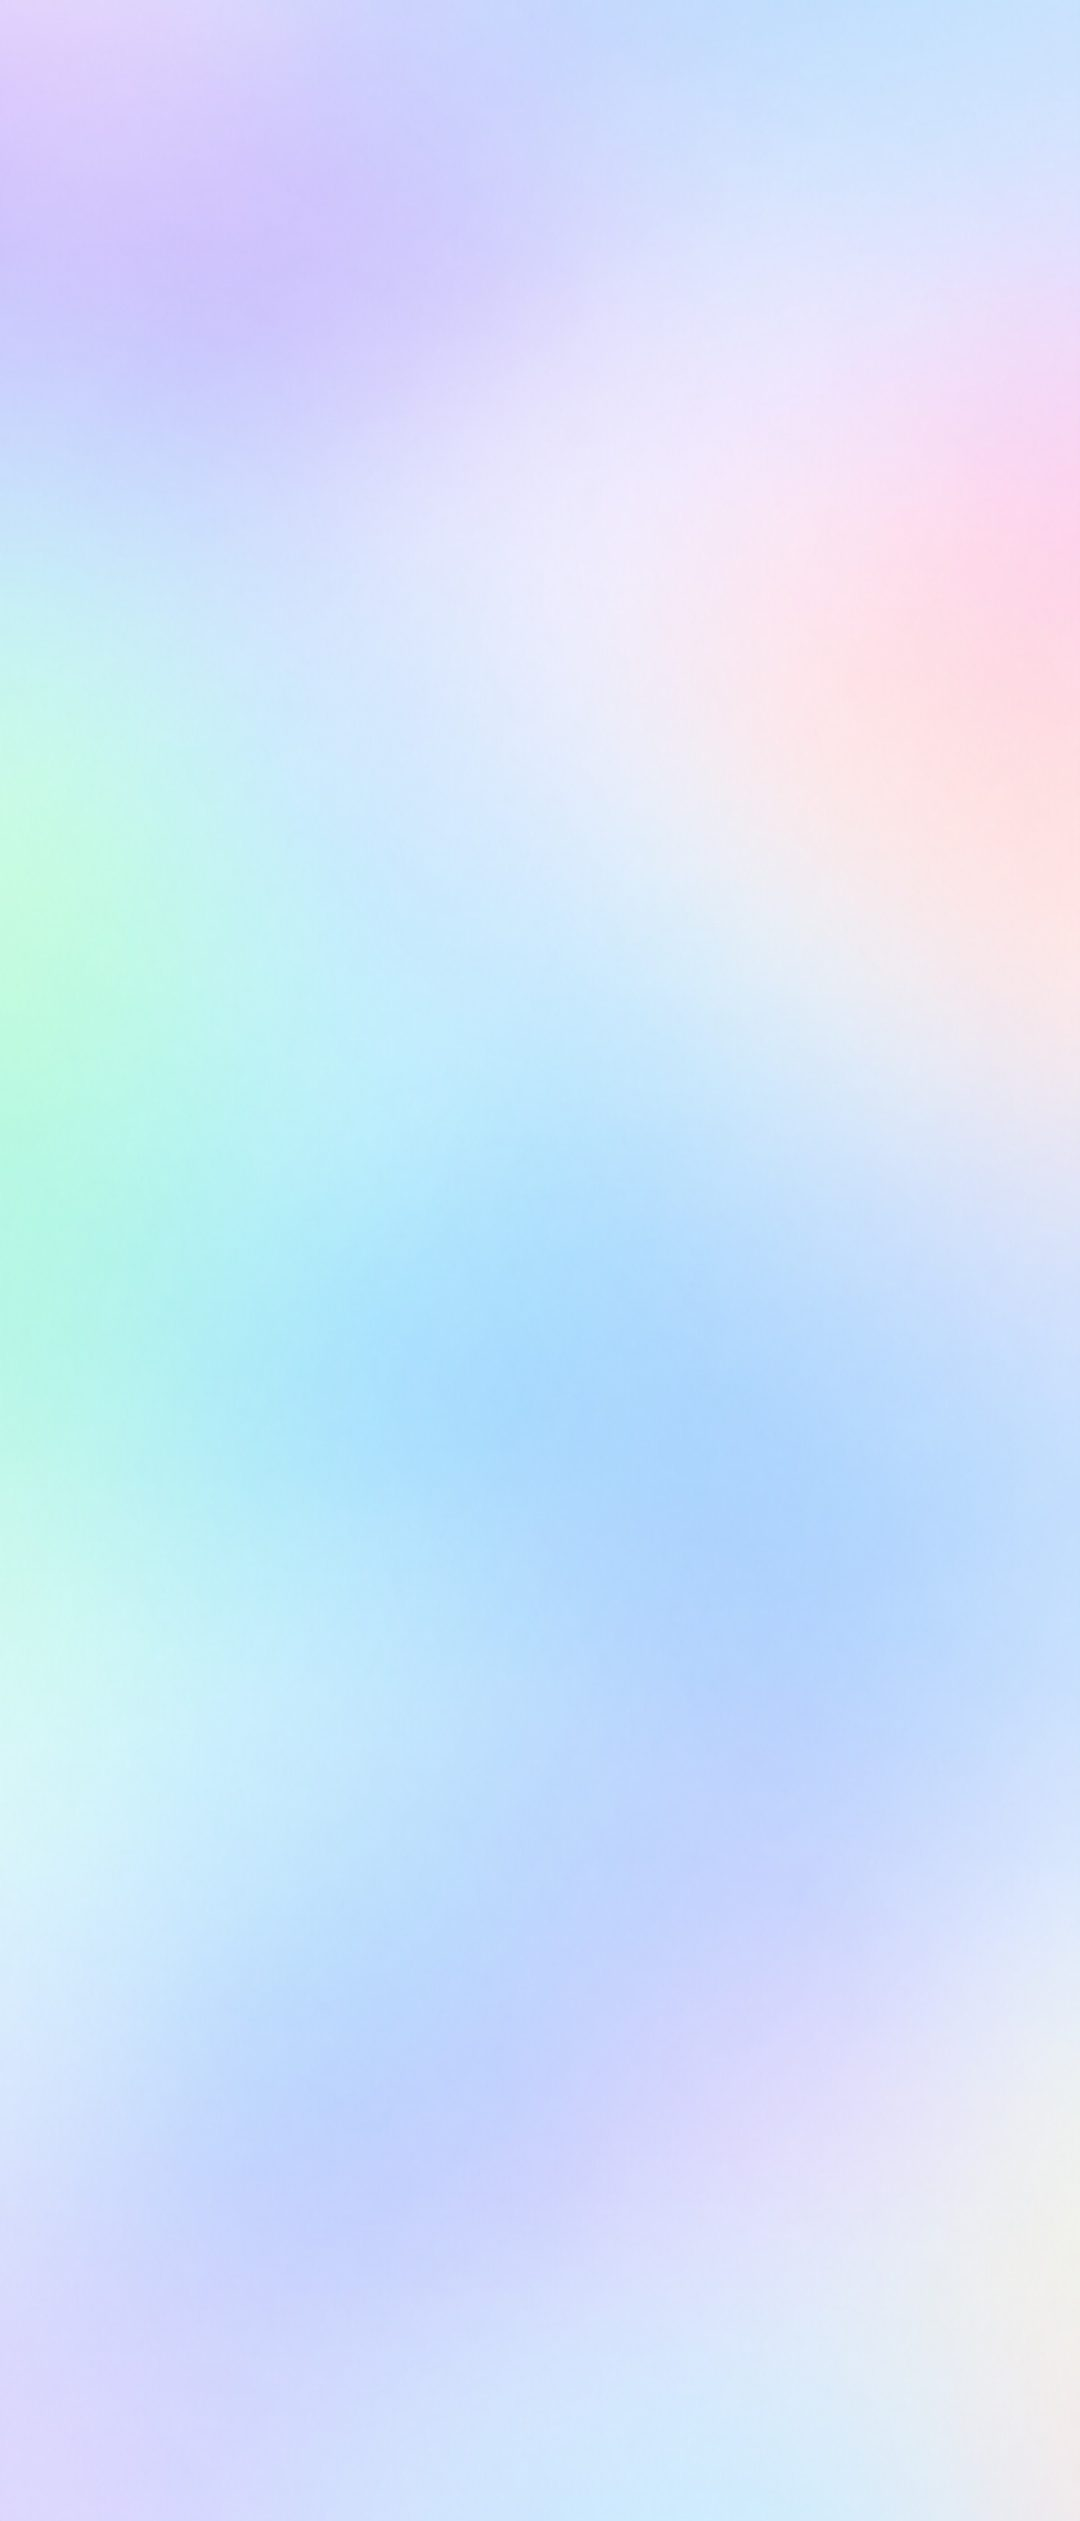
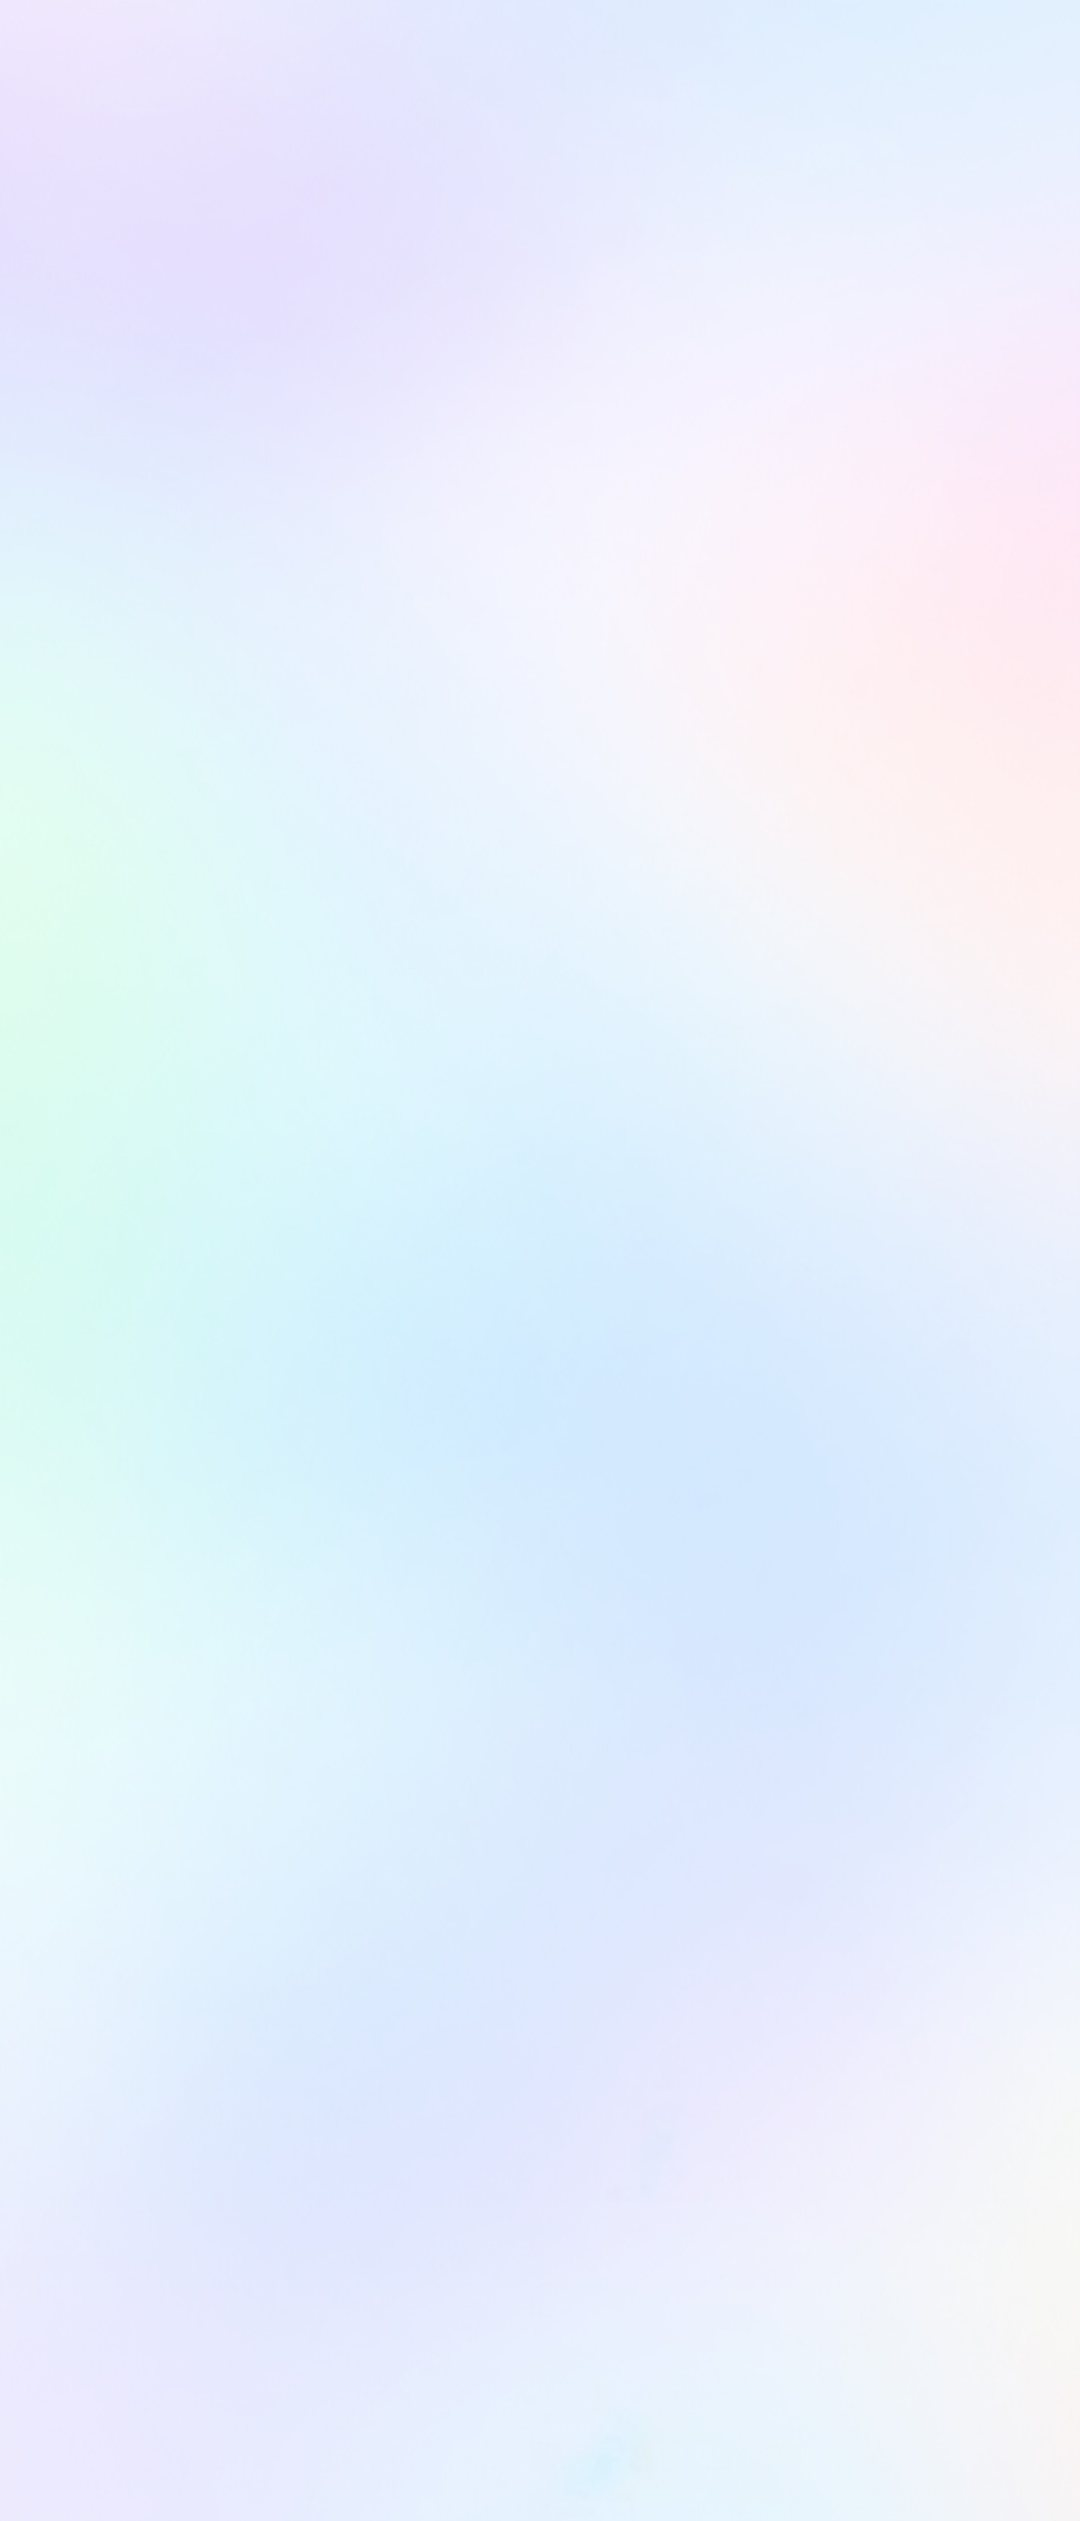
Device theme, full-bleed wallpaper, purple dark accent, compact menus

diff --git a/index.html b/index.html
@@ -4,7 +4,7 @@
   <meta charset="utf-8" />
   <meta name="viewport" content="width=device-width,initial-scale=1,maximum-scale=1,user-scalable=no,viewport-fit=cover" />
   <meta name="theme-color" content="#000000" />
-  <meta name="color-scheme" content="dark light" />
+  <meta name="color-scheme" content="light dark" />
   <title>MDTXTRT</title>
   <meta name="description" content="md to rich text and telegraph editor — Mini App Telegram e Telegraph." />
   <link rel="icon" type="image/svg+xml" href="favicon.svg" />
@@ -17,13 +17,13 @@
   <meta name="twitter:card" content="summary_large_image" />
   <meta name="twitter:image" content="https://romastefale.github.io/MDTXTRT/x-banner.jpg" />
   <script src="https://telegram.org/js/telegram-web-app.js"></script>
-  <script>(function(){try{var t=window.Telegram&&window.Telegram.WebApp;var l=t&&t.colorScheme?t.colorScheme==="light":matchMedia("(prefers-color-scheme: light)").matches;document.documentElement.classList.toggle("light",l);document.documentElement.classList.toggle("dark",!l);var m=document.querySelector('meta[name="theme-color"]');if(m)m.setAttribute("content",l?"#e4eaf8":"#161b4a");}catch(e){}})();</script>
+  <script>(function(){try{var t=window.Telegram&&window.Telegram.WebApp;var inTg=t&&((t.initData&&t.initData.length)||(t.initDataUnsafe&&t.initDataUnsafe.user&&t.initDataUnsafe.user.id));var l=inTg&&t.colorScheme?t.colorScheme==="light":matchMedia("(prefers-color-scheme: light)").matches;if(inTg){document.documentElement.classList.toggle("light",l);document.documentElement.classList.toggle("dark",!l);}else{document.documentElement.classList.remove("light","dark");}var m=document.querySelector('meta[name="theme-color"]');if(m)m.setAttribute("content",l?"#e4eaf8":"#161b4a");}catch(e){}})();</script>
   <style>
     :root{
       --bg:#161b4a;
       --text:#f5f5f7;
       --muted:#c5c8d8;
-      --accent:#ff6a00;
+      --accent:#8b5cf6; color-scheme:dark;
       --bar:rgba(255,255,255,.08);
       --line:rgba(255,255,255,.18);
       --wash-image:url("bg-dark.jpg"); --glass-frost:0.08;
@@ -40,7 +40,7 @@
     }
     @media (prefers-color-scheme: light){
       :root{
-        --bg:#e4eaf8; --text:#151515; --muted:#5c6478;
+        --bg:#e4eaf8; --text:#151515; --muted:#5c6478; --accent:#ff6a00; color-scheme:light;
         --bar:rgba(255,255,255,.46); --line:rgba(255,255,255,.7);
         --wash-image:url("bg-light.jpg"); --glass-frost:0.22; --glass-saturation:1.15;
         --glass:rgba(255,255,255,var(--glass-frost));
@@ -50,7 +50,7 @@
       }
     }
     html.light{
-      --bg:#e4eaf8; --text:#151515; --muted:#5c6478;
+      --bg:#e4eaf8; --text:#151515; --muted:#5c6478; --accent:#ff6a00; color-scheme:light;
       --bar:rgba(255,255,255,.46); --line:rgba(255,255,255,.7);
       --wash-image:url("bg-light.jpg"); --glass-frost:0.22;
       --glass:rgba(255,255,255,var(--glass-frost));
@@ -59,18 +59,19 @@
       --glass-shadow-lg:inset 0 .5px 0 rgba(255,255,255,.5),0 4px 12px rgba(20,24,36,.05),0 16px 32px rgba(20,24,36,.08),0 28px 48px rgba(20,24,36,.06);
     }
     html.dark{
-      --bg:#161b4a; --text:#f5f5f7; --muted:#c5c8d8;
+      --bg:#161b4a; --text:#f5f5f7; --muted:#c5c8d8; --accent:#8b5cf6; color-scheme:dark;
       --bar:rgba(255,255,255,.08); --line:rgba(255,255,255,.18);
       --wash-image:url("bg-dark.jpg"); --glass-frost:0.08; --glass:rgba(255,255,255,var(--glass-frost));
     }
     *{box-sizing:border-box}
-    html,body{width:100%;height:100%;min-height:100dvh;touch-action:manipulation;-ms-touch-action:manipulation;background:var(--bg)}
+    html,body{width:100%;height:100%;min-height:100dvh;min-height:100lvh;min-height:-webkit-fill-available;touch-action:manipulation;-ms-touch-action:manipulation;background-color:var(--bg);background-image:var(--wash-image);background-size:cover;background-position:center;background-repeat:no-repeat;accent-color:var(--accent);caret-color:var(--accent)}
     body{
-      margin:0;background:var(--bg);color:var(--text);
+      margin:0;color:var(--text);
       font:16px/1.45 -apple-system,BlinkMacSystemFont,"SF Pro Text","Segoe UI",Roboto,sans-serif;
       overflow:hidden;
     }
-    .wash{position:fixed;inset:0;width:100vw;height:100dvh;height:100svh;z-index:0;pointer-events:none;overflow:hidden;background:var(--wash-image) center / cover no-repeat}
+    .wash{position:fixed;inset:0;width:100%;height:100%;min-width:100vw;min-height:100dvh;min-height:100lvh;z-index:0;pointer-events:none;overflow:hidden;background:var(--wash-image) center / cover no-repeat}
+    ::selection{background:color-mix(in srgb,var(--accent) 38%, transparent);color:inherit}
     button,input{font:inherit;color:inherit}
     button{cursor:pointer;-webkit-tap-highlight-color:transparent}
     .frost{
@@ -101,7 +102,7 @@
     .link-form{display:flex;gap:8px;align-items:center}
     .link-go{height:40px;padding:0 12px;border-radius:12px;border:1px solid var(--line);background:transparent}
     .connect-hero{display:grid;place-items:center;margin:4px 0 8px}
-    .connect-hero img{width:88px;height:88px;border-radius:18px;object-fit:cover;background:#000}
+    .connect-hero img{width:64px;height:64px;border-radius:16px;object-fit:cover;background:#000}
     .iconbtn{
       width:36px;height:36px;border:0;border-radius:999px;padding:0;
       background:transparent;display:grid;place-items:center;color:inherit
@@ -114,8 +115,8 @@
     .seg button{
       width:34px;height:28px;border:0;border-radius:999px;background:transparent;display:grid;place-items:center
     }
-    .seg button.active{background:rgba(255,255,255,.1)}
-    html.light .seg button.active{background:rgba(0,0,0,.07)}
+    .seg button.active,.iconbtn.on,.bar > button.on{background:color-mix(in srgb,var(--accent) 22%, transparent);color:var(--accent)}
+    html.light .seg button.active,html.light .iconbtn.on,html.light .bar > button.on{background:color-mix(in srgb,var(--accent) 18%, #fff);color:var(--accent)}
     .seg svg{width:16px;height:16px;stroke:currentColor;fill:none;stroke-width:1.9;stroke-linecap:round;stroke-linejoin:round}
     .canvas{flex:1;overflow:auto;-webkit-overflow-scrolling:touch;padding:calc(var(--tg-top) + 108px) 16px calc(var(--bar-h) + var(--kb) + var(--safe-bottom) + 28px);position:relative}
     .editor,.preview{
@@ -149,7 +150,7 @@
       flex:1;min-width:0;height:40px;border:0;background:transparent;color:inherit;
       display:grid;place-items:center;border-radius:999px;padding:0
     }
-    .bar > button.on{color:var(--accent);background:rgba(255,255,255,.08)}
+    .bar > button.on{color:var(--accent);background:color-mix(in srgb,var(--accent) 22%, transparent)}
     .bar .plus,.bar .send{flex:0 0 40px}
     .send-dot{
       width:32px;height:32px;border-radius:999px;display:grid;place-items:center;
@@ -157,25 +158,26 @@
       box-shadow:inset 0 1px 0 rgba(255,255,255,.38),0 4px 16px color-mix(in oklab,var(--accent) 55%,transparent)
     }
     .send-dot svg{width:16px;height:16px}
+    .seg .send{width:36px;height:36px;border:0;background:transparent;display:grid;place-items:center;padding:0}
+    .seg .send-dot{width:28px;height:28px}
     .backdrop{position:fixed;inset:0;z-index:30;background:rgba(0,0,0,.28);display:none}
     .backdrop.on{display:block;backdrop-filter:blur(18px) saturate(140%);-webkit-backdrop-filter:blur(18px) saturate(140%)}
     .sheet{
       position:fixed;left:12px;right:12px;bottom:calc(var(--bar-h) + var(--kb) + var(--safe-bottom) + 8px);
-      z-index:40;max-width:none;margin:auto;max-height:52vh;overflow:auto;
-      display:none;padding:12px;border-radius:20px;
+      z-index:40;max-width:420px;margin:auto;max-height:56vh;overflow:auto;
+      display:none;padding:10px;border-radius:22px;
       box-shadow:var(--glass-shadow-lg);
-      backdrop-filter:blur(52px) saturate(200%);
-      -webkit-backdrop-filter:blur(52px) saturate(200%)
+      background:color-mix(in srgb,var(--glass) 70%, transparent);
     }
     .sheet.on{display:block}
     .sheet h3{margin:0 0 8px;font-size:15px}
     .sheet p,.hint{margin:0 0 10px;font-size:12px;color:var(--muted)}
-    .grid{display:grid;grid-template-columns:1fr 1fr;gap:6px}
+    .grid{display:grid;grid-template-columns:1fr 1fr;gap:5px}
     .grid button,.stack button{
-      min-height:40px;border-radius:12px;border:1px solid var(--glass-edge);
-      background:rgba(255,255,255,.06);box-shadow:inset 0 1px 0 rgba(255,255,255,.16);
+      min-height:36px;border-radius:14px;border:0;
+      background:rgba(255,255,255,.14);box-shadow:inset 0 1px 0 rgba(255,255,255,.22);
       display:flex;align-items:center;gap:8px;
-      padding:0 10px;font-size:13px;text-align:left
+      padding:0 8px;font-size:13px;text-align:left
     }
     .grid button svg{width:16px;height:16px;stroke:currentColor;fill:none;stroke-width:1.9;stroke-linecap:round;stroke-linejoin:round}
     .stack{display:flex;flex-direction:column;gap:6px}
@@ -214,7 +216,7 @@
       <span class="stats" id="docStats">0</span>
       <div class="seg frost">
         <button id="editTab" class="active" aria-label="Editar"><svg viewBox="0 0 24 24"><path d="M12 20h9"/><path d="M16.5 3.5a2.1 2.1 0 0 1 3 3L7 19l-4 1 1-4z"/></svg></button>
-        <button id="previewTab" aria-label="Prévia"><svg viewBox="0 0 24 24"><path d="M2 12s4-7 10-7 10 7 10 7-4 7-10 7S2 12 2 12z"/><circle cx="12" cy="12" r="3"/></svg></button>
+        <button class="send" id="publishBtn" aria-label="Publicar"><span class="send-dot"><svg viewBox="0 0 24 24"><path d="M12 19V5"/><path d="m5 12 7-7 7 7"/></svg></span></button>
       </div>
     </div>
     </div>
@@ -242,10 +244,10 @@
       <button type="button" data-cmd="bold" aria-label="Negrito"><svg viewBox="0 0 24 24"><path d="M7 5h6a4 4 0 1 1 0 8H7z"/><path d="M7 13h7a4 4 0 1 1 0 8H7z"/></svg></button>
       <button type="button" data-cmd="italic" aria-label="Itálico"><svg viewBox="0 0 24 24"><path d="M14 4h-4M14 20h-4M15 4 9 20"/></svg></button>
       <button type="button" data-cmd="underline" aria-label="Sublinhado"><svg viewBox="0 0 24 24"><path d="M6 4v6a6 6 0 0 0 12 0V4"/><path d="M5 20h14"/></svg></button>
+      <button type="button" id="quoteBtn" data-block="blockquote" aria-label="Citação"><svg viewBox="0 0 24 24"><path d="M7 17H4a2 2 0 0 1-2-2v-3a6 6 0 0 1 6-6"/><path d="M19 17h-3a2 2 0 0 1-2-2v-3a6 6 0 0 1 6-6"/></svg></button>
       <button type="button" id="linkBtn" aria-label="Link"><svg viewBox="0 0 24 24"><path d="M10 13a5 5 0 0 0 7.07 0l1.41-1.41a5 5 0 0 0-7.07-7.07L10 5.93"/><path d="M14 11a5 5 0 0 0-7.07 0L5.5 12.43a5 5 0 0 0 7.07 7.07L14 18.07"/></svg></button>
-      <button type="button" data-block="h2" aria-label="Título"><svg viewBox="0 0 24 24"><path d="M6 5v14M18 5v14M6 12h12"/></svg></button>
+      <button type="button" id="h2Btn" data-block="h2" aria-label="Título"><svg viewBox="0 0 24 24"><path d="M6 5v14M18 5v14M6 12h12"/></svg></button>
       <button type="button" data-cmd="insertUnorderedList" aria-label="Lista"><svg viewBox="0 0 24 24"><path d="M8 6h13M8 12h13M8 18h13"/><path d="M4 6h.01M4 12h.01M4 18h.01"/></svg></button>
-      <button class="send" id="publishBtn" aria-label="Publicar"><span class="send-dot"><svg viewBox="0 0 24 24"><path d="M12 19V5"/><path d="m5 12 7-7 7 7"/></svg></span></button>
     </div>
   </div>
 
@@ -253,7 +255,6 @@
   <div class="sheet frost" id="plusMenu">
     <h3>Inserir</h3>
     <div class="grid">
-      <button data-block="blockquote"><svg viewBox="0 0 24 24"><path d="M7 17H4a2 2 0 0 1-2-2v-3a6 6 0 0 1 6-6"/><path d="M19 17h-3a2 2 0 0 1-2-2v-3a6 6 0 0 1 6-6"/></svg>Citação</button>
       <button data-block="h1">H1</button>
       <button data-block="h2">H2</button>
       <button data-block="h3">H3</button>
@@ -325,15 +326,21 @@
 
     function applyScheme(){
       const tg = window.Telegram?.WebApp;
-      const light = tg ? tg.colorScheme === 'light' : window.matchMedia('(prefers-color-scheme: light)').matches;
-      document.documentElement.classList.toggle('light', light);
-      document.documentElement.classList.toggle('dark', !light);
+      const inTg = !!(tg && ((tg.initData && tg.initData.length) || tg.initDataUnsafe?.user?.id));
+      const light = inTg && tg.colorScheme ? tg.colorScheme === 'light' : window.matchMedia('(prefers-color-scheme: light)').matches;
+      if(inTg){
+        document.documentElement.classList.toggle('light', light);
+        document.documentElement.classList.toggle('dark', !light);
+      } else {
+        document.documentElement.classList.remove('light','dark');
+      }
       const theme = light ? '#e4eaf8' : '#161b4a';
       const meta = document.querySelector('meta[name="theme-color"]');
       if(meta) meta.setAttribute('content', theme);
-      document.body.style.background = theme;
-      tg?.setBackgroundColor?.(tg.themeParams?.bg_color || theme);
-      tg?.setHeaderColor?.(theme);
+      if(inTg){
+        tg?.setBackgroundColor?.(tg.themeParams?.bg_color || theme);
+        tg?.setHeaderColor?.(theme);
+      }
     }
     applyScheme();
     window.matchMedia('(prefers-color-scheme: light)').addEventListener('change', applyScheme);
@@ -472,12 +479,9 @@
       }catch{}
     }
     function setMode(mode){
-      const edit = mode === 'edit';
-      $('#editTab').classList.toggle('active', edit);
-      $('#previewTab').classList.toggle('active', !edit);
-      editor.classList.toggle('off', !edit);
-      preview.classList.toggle('on', !edit);
-      if(!edit) preview.innerHTML = editor.innerHTML;
+      $('#editTab')?.classList.toggle('active', true);
+      editor.classList.remove('off');
+      preview?.classList.remove('on');
     }
     function escapeHTML(s){ return s.replace(/[&<>"']/g, c => ({'&':'&amp;','<':'&lt;','>':'&gt;','"':'&quot;',"'":'&#39;'}[c])); }
     function htmlToText(html){ const d = document.createElement('div'); d.innerHTML = html; return d.innerText; }
@@ -606,9 +610,14 @@
     document.addEventListener('selectionchange', ()=>{
       saveSel();
       $$('#typebar [data-cmd]').forEach(btn => {
-        if(btn.dataset.cmd === 'insertUnorderedList') return;
         try{ btn.classList.toggle('on', document.queryCommandState(btn.dataset.cmd)); }catch{}
       });
+      const node = document.getSelection()?.anchorNode;
+      const el = node && (node.nodeType === 1 ? node : node.parentElement);
+      $('#quoteBtn')?.classList.toggle('on', !!(el && el.closest('blockquote')));
+      $('#h2Btn')?.classList.toggle('on', !!(el && el.closest('h1,h2,h3')));
+      $('#linkBtn')?.classList.toggle('on', !!(el && el.closest('a')));
+      $('#plusBtn')?.classList.toggle('on', $('#plusMenu')?.classList.contains('on'));
     });
     $('#typebar').addEventListener('mousedown', e => e.preventDefault());
     $$('#typebar [data-cmd]').forEach(btn => btn.addEventListener('click', ()=>exec(btn.dataset.cmd)));
@@ -629,8 +638,7 @@
     $('#fileBtn').addEventListener('click', ()=>openPanel('#fileSheet'));
     $('#publishBtn').addEventListener('click', ()=>openPanel('#publishSheet'));
     $('#editTab').addEventListener('click', ()=>setMode('edit'));
-    $('#previewTab').addEventListener('click', ()=>setMode('preview'));
-    $('#importSheetBtn').addEventListener('click', ()=>{ fileInput.click(); closePanels(); });
+        $('#importSheetBtn').addEventListener('click', ()=>{ fileInput.click(); closePanels(); });
     $('#exportTxtBtn').addEventListener('click', ()=>{ download((docName.value||'doc')+'.txt', htmlToText(editor.innerHTML), 'text/plain'); closePanels(); });
     $('#exportMdBtn').addEventListener('click', ()=>{ download((docName.value||'doc')+'.md', htmlToMarkdown(editor.innerHTML), 'text/markdown'); closePanels(); });
     $('#exportRichBtn').addEventListener('click', ()=>{ download((docName.value||'doc')+'-rich.json', JSON.stringify(buildRich(),null,2), 'application/json'); closePanels(); });
